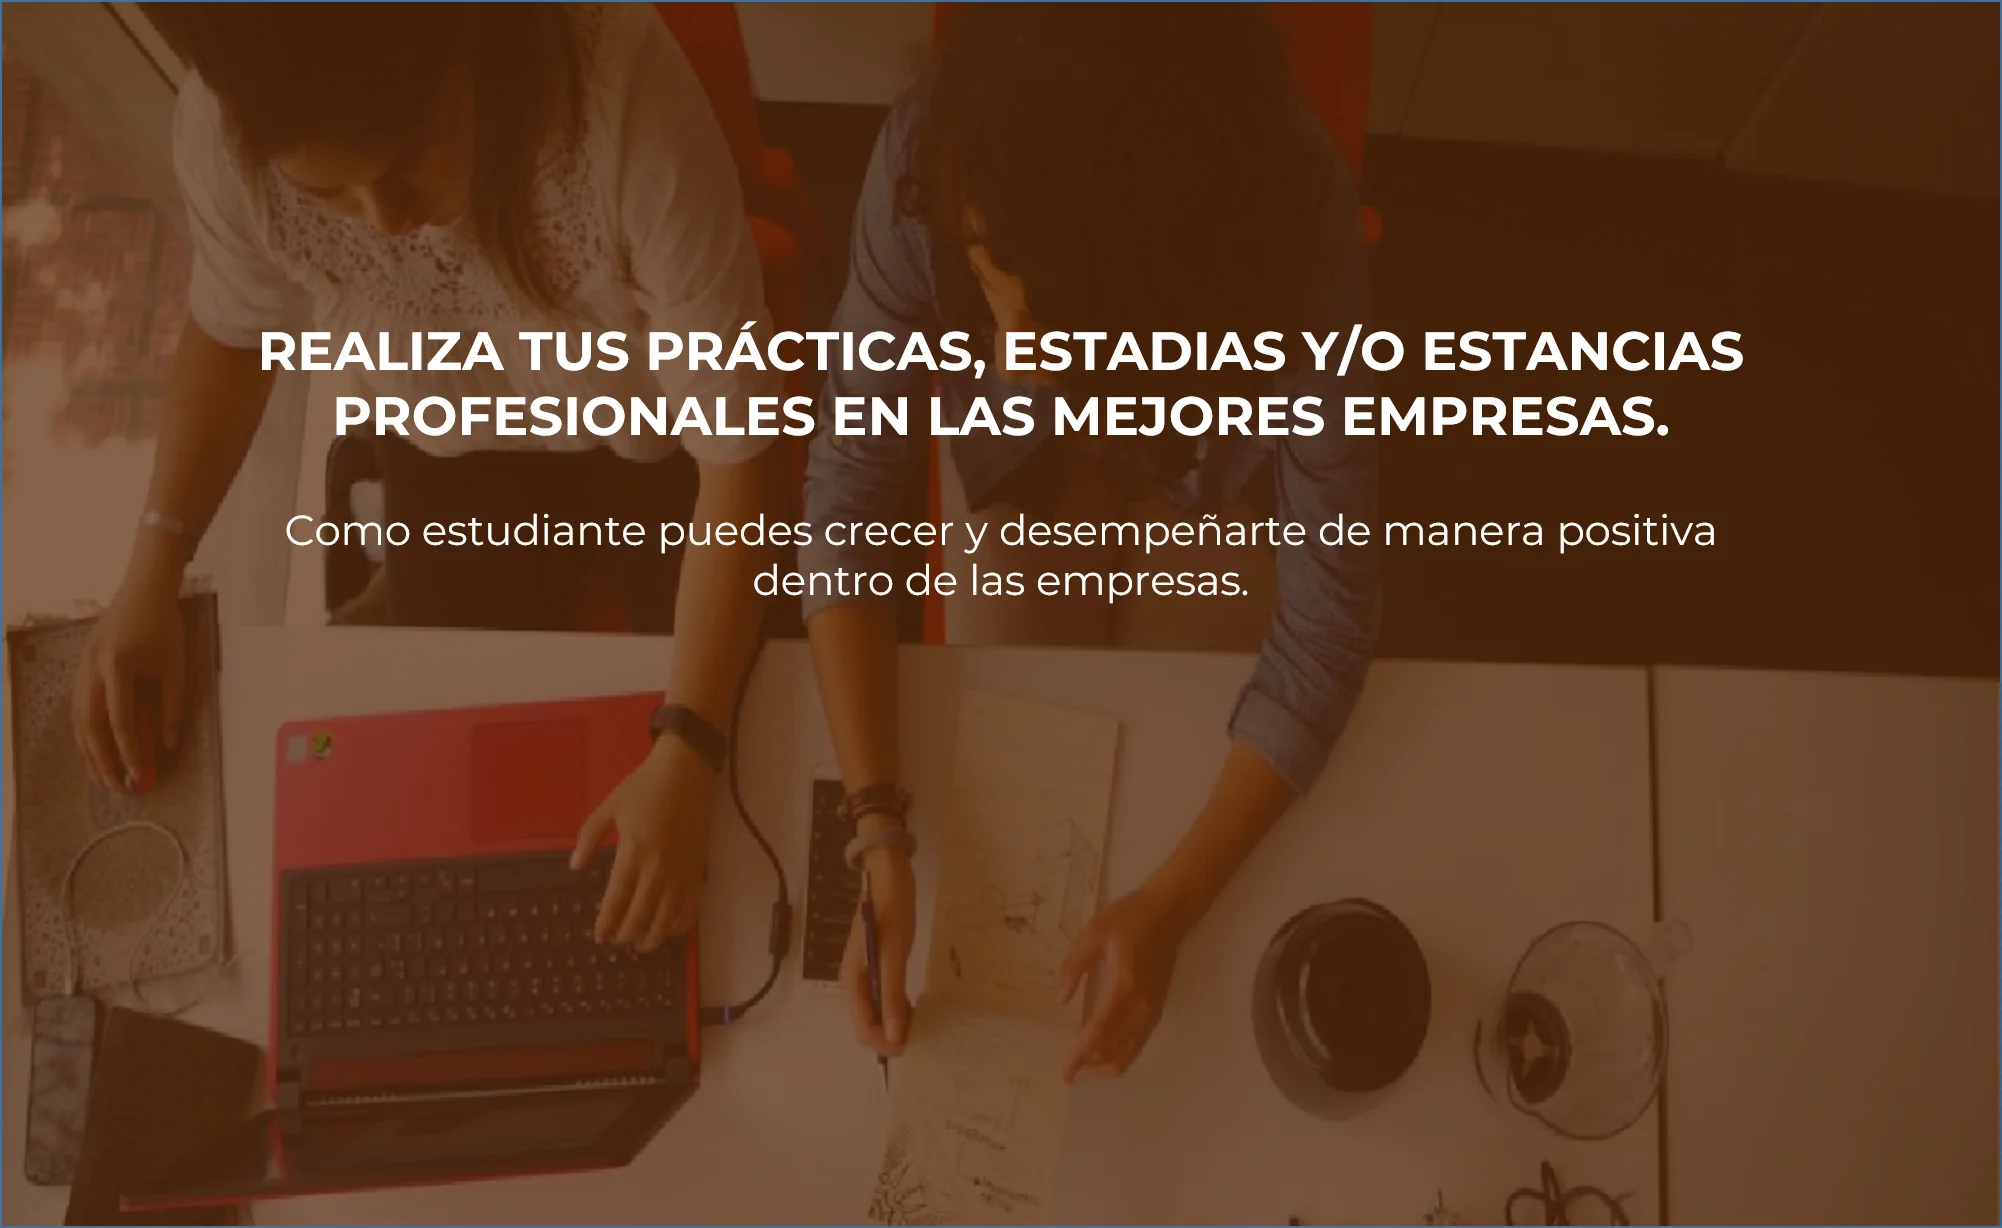
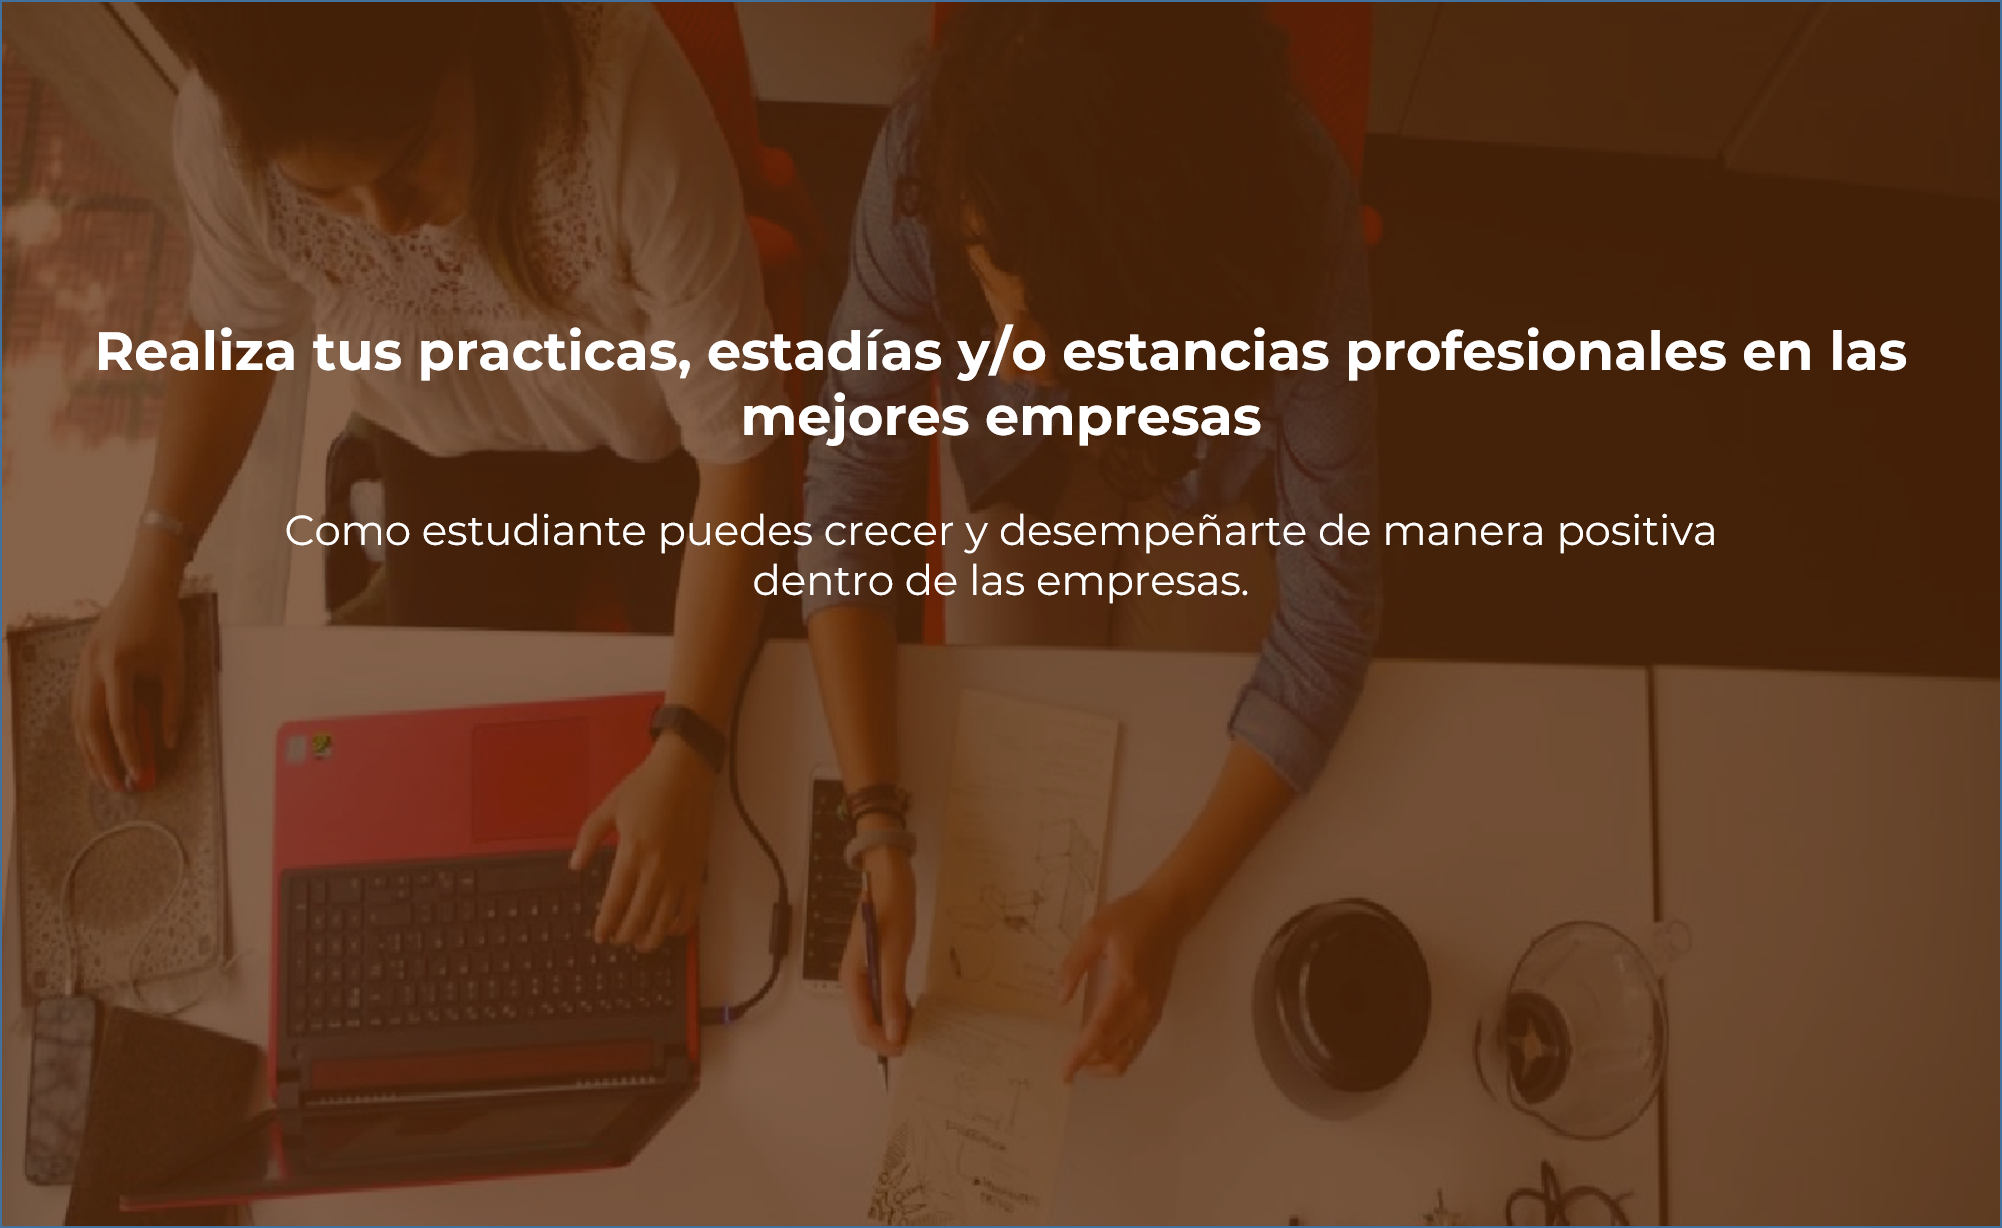
version con las corecciones de andrei

Changed region(s): [[0.031, 0.2476, 0.96, 0.3713], [0.991, 0.557, 1.0, 1.0]]

diff --git a/index.html b/index.html
@@ -74,7 +74,7 @@
                                 <a href="#feature" class="scroll">Resumen</a>
                             </li>
                             <li>
-                                <a href="#about" class="scroll">Que hacemos</a>
+                                <a href="#about" class="scroll">Qué hacemos</a>
                             </li>
                             <!--<li>
                                 <a href="#team" class="scroll">Team</a>
@@ -126,7 +126,7 @@
 
                             </li>
                             <li class="clearfix">
-                                <a href="#about" class="scroll">Que hacemos</a>
+                                <a href="#about" class="scroll">Qué hacemos</a>
 
                             </li>
                             <!--<li class="clearfix">
@@ -149,7 +149,7 @@
 
                         </ul>
 
-                        <p class="push-bottom text-white text-small">FESE "Fundacion Educacion Superior Empresa"</p>
+                        <p class="push-bottom text-white text-small">FESE "Fundación Educación Superior Empresa"</p>
                     </nav>
                 </div>
             </div>
@@ -233,7 +233,7 @@ s
                       <div class="split-box text-center ">
                           <div >                              
                               <h3  class = "text-white" >                                
-                                APROVECHA LOS BENEFICIOS QUE TENEMOS PARA TU EMPRESA  <!--Aqui podemos agregar un texto arriba del titulo, este texno va sin la etiqueta <p>-->
+                                Aprovecha los beneficios que tenemos para tu empresa   <!--Aqui podemos agregar un texto arriba del titulo, este texno va sin la etiqueta <p>-->
                               </h3>
                               <div class="text-large  margin-10px-bottom font-weight-100  text-white">
                                 Identificamos, desarrollamos, capacitamos y vinculamos el talento universitario con empresas de 
@@ -324,7 +324,7 @@ s
             <div class="col-lg-9 text-center center-col last-paragraph-no-margin">
                 <div class="sec-title margin-100px-bottom">
                     <div class="text-large text-red margin-10px-bottom font-weight-400 text-blue">
-                        Todo lo que necesitas saber.
+                        Todo lo que necesitas saber
                     </div>
                     <h3 class="text-capitalize alt-font text-extra-dark-gray font-weight-300">
                         Resumen <!----------------ESTO ES UAN SECCION DEL MENU----------------------->
@@ -350,7 +350,7 @@ s
                         Estudiantes
                     </div>
                     <p>
-                        Como estudiante, puedes crecer y desempeñarte de manera positiva dentro de las ampresas.
+                        Como estudiante, puedes crecer y desempeñarte de manera positiva dentro de las empresas.
                     </p>
                 </div>
             </div>
@@ -365,8 +365,7 @@ s
                         Empresas
                     </div>
                     <p>
-                      Identificamos, desarrollamos, capacitamos y vinculamos el talento universitario
-                      con empresas de cualquier tamaño.
+                        Identificamos, desarrollamos, capacitamos y vinculamos el talento universitario con empresas de cualquier tamaño.
                     </p>
                 </div>
             </div>
@@ -381,8 +380,7 @@ s
                         Universidades
                     </div>
                     <p>
-                      Nos dedicamos a conectar jóvenes universitarios de todo el país con oportunidades de 
-                      experiencia laboral.
+                        Nos dedicamos a vincular jóvenes universitarios de todo el país con oportunidades de  experiencia laboral. 
                     </p>
                 </div>
             </div>
@@ -413,10 +411,9 @@ s
                                 Empresarial
                             </h3>
                             <p>
-                              Somos una asociación civil respaldada por instituciones de educación superior, dedicada a conectar 
-                              a jóvenes universitarios de todo el país con oportunidades de experiencia laboral; tenemos una
-                               amplia base de datos de estudiantes altamente capacitados y motivados que están listos para 
-                               aplicar sus habilidades y conocimientos en su empresa.
+                              
+                                Somos una asociación civil respaldada por instituciones de educación superior, dedicada a vincular a jóvenes universitarios de todo el país con oportunidades de experiencia laboral; tenemos una amplia base de datos de estudiantes altamente capacitados y motivados que están listos para aplicar sus habilidades y conocimientos en su empresa.
+
                             </p>
                             <a href="http://empresarial.fese.mx/" class="btn btn-transparent-blue btn-rounded btn-large margin-20px-top">Más informacion.</a>
                         </div>
@@ -439,13 +436,12 @@ s
                             <div class="text-large text-red margin-10px-bottom font-weight-400 text-blue">
                                  <!--Aqui podemos agregar un texto arriba del titulo, este texto va sin la etiqueta <p>-->
                             </div>
-                            <h3 class="text-capitalize alt-font text-extra-dark-gray font-weight-300">
-                                Practicas,estadias y/o Estancias profesionales
+                            <h3 class=" alt-font text-extra-dark-gray font-weight-300">
+                                Prácticas, estadías y/o estancias profesionales
                             </h3>
+                            
                             <p>
-                                  Las habilidades y competencias se ven reforzadas si las pones en práctica en 
-                                  el mundo laboral,  esto sin importar la carrera que estés estudiando, Con estos 
-                                  nuevos conocimientos adquiridos destacaras sobre los demás.
+                                Las habilidades y competencias se ven reforzadas si las pones en práctica en el mundo laboral,  esto sin importar la carrera que estés estudiando, con estos nuevos conocimientos adquiridos destacarás sobre los demás.
                             </p>
                             <!--<a href="#." class="btn btn-transparent-blue btn-rounded btn-large margin-20px-top">Informarte</a>-->
                         </div>
@@ -472,9 +468,9 @@ s
                               Instituciones
                           </h3>
                           <p>
-                            La FESE es una organización nacional que promueve, gestiona y articula a través del trabajo
+                            La FESE es una asociación civil que promueve, gestiona y articula a través del trabajo
                              colaborativo de los sectores educativo, productivo y gubernamental, la vinculación de la 
-                             oferta de la educación superior con la demanda actual y futura del sector económico-productivo
+                             oferta de la educación superior con la demanda actual y futura del sector económico-productivo.
                           </p>
                           <!--<a href="#." class="btn btn-transparent-blue btn-rounded btn-large margin-20px-top">Ir a</a>--><!--QUITO EL BOTON YA QUE ESTA  ESTA SECCION ES SOLO INFORMATIVA-->
                       </div>
@@ -1067,8 +1063,8 @@ s
 <!-- aqui empieza la parte de las empresas que trabajan con nosotros-->
 <section>
 <div class="container " >
-    <h3 class="text-capitalize alt-font text-extra-dark-gray font-weight-300 text-center">
-        Ellos confian en nosotros.
+    <h3 class=" alt-font text-extra-dark-gray font-weight-300 text-center">
+        Ellos confian en nosotros
     </h3><br>
     <div class="row margenFondoDivs">
     <!--------------------------------------------------------------------------------------->

diff --git a/esr.html b/esr.html
@@ -232,8 +232,8 @@ s
                     <div class= "col-lg-9 text-center center-col last-paragraph-no-margin centrar" >
                       <div class="split-box text-center ">
                           <div >                              
-                              <h3  class = "text-white centro">                                
-                                LA RESPONSABILIDAD SOCIAL COMO PARTE FUNDAMENTAL DE LA FUNDACIÓN EDUCACIÓN SUPERIOR EMPRESA  <!--Aqui podemos agregar un texto arriba del titulo, este texno va sin la etiqueta <p>-->
+                              <h3  class = "text-white ">                                
+                                La responsabilidad social como parte fundamental de la fundación educación superior empresa  <!--Aqui podemos agregar un texto arriba del titulo, este texno va sin la etiqueta <p>-->
                               </h3>
                               <!--<div class="text-large  margin-10px-bottom font-weight-100  text-white">
                                 Identificamos, desarrollamos, capacitamos y vinculamos el talento universitario con empresas de 
@@ -325,7 +325,7 @@ s
                                 <!--Aqui podemos agregar un texto arriba del titulo, este texno va sin la etiqueta <p>-->
                             </div>
                             <div class="col-md-12"><br>
-                                <h3 class="color_titulo text-left"> Ética Empresarial  </h3>
+                                <h3 class="color_titulo text-left"> Ética empresarial  </h3>
                             </div>
                             <div  class="col-md-12 text-center">
                                 <br>
@@ -334,7 +334,7 @@ s
                             </div>
                             <!----------------------------------------------------------->
                             <div class="col-md-12"><br>
-                                <h3 class="color_titulo text-left"> Calidad de Vida en la Empresa </h3>
+                                <h3 class="color_titulo text-left"> Calidad de vida en la empresa </h3>
                             </div>
                             <div  class="col-md-12 text-center">
                                 <br>
@@ -342,7 +342,7 @@ s
                             </div>
                             <!---------------------------------------------------------------->
                             <div class="col-md-12"><br>
-                                <h3 class="color_titulo text-left"> Medio Ambiente </h3>
+                                <h3 class="color_titulo text-left"> Medio ambiente </h3>
                             </div>
                             <div  class="col-md-12 text-center">
                                 <br>

diff --git a/avisodeprivacidad.html b/avisodeprivacidad.html
@@ -168,13 +168,13 @@
         
     <div class="col-md12">
         <div class="col-md-12"><br><br>
-            <h1 class="color_titulo">AVISO DE PRIVACIDAD</h1><br>
+            <h1 class="color_titulo">Aviso de privacidad</h1><br>
             </div>
             <div class="col-md-12 text-center">
                 <p class="text-justify">El presente aviso de privacidad establece los términos y condiciones para el tratamiento de los datos personales que recabe la <strong>Fundación Educación Superior Empresa, A. C.</strong> (en lo sucesivo “<strong>FESE</strong>”) con domicilio ubicado en Tenayuca 200, Colonia Santa Cruz Atoyac, código postal 03310, Benito Juárez en la Ciudad de México y portal de internet <strong>www.fese.mx</strong>, para la prestación de cualquiera de nuestros servicios, de conformidad con lo establecido en la <strong>Ley Federal de Protección de Datos Personales en Posesión de los Particulares</strong> (en lo sucesivo “<strong>LA LEY</strong>”) </p></div>
 
             <div class="col-md-12"><br>
-                <h3 class="color_titulo">Datos Personales que recabamos</h3><br>
+                <h3 class="color_titulo">Datos personales que recabamos</h3><br>
             </div>
             <div class="col-md-12 text-center">
                 <p class="text-justify">La <strong>FESE</strong>, podrá recabar los datos personales del <strong>TITULAR</strong> de forma directa y/o particular por cualquier medio de contacto; de manera indirecta a través de nuestra página web; plataformas digitales identificadas en nuestra página web o redes sociales y uso de cookies en nuestras plataformas. </p>
@@ -234,7 +234,7 @@
 			
 			
 			<div class="col-md-12"><br>
-                <h3 class="color_titulo">Ejercicio de Derechos ARCO</h3><br>
+                <h3 class="color_titulo">Ejercicio de derechos ARCO</h3><br>
             </div>
             <div class="col-md-12 text-center">
                 <p class="text-justify">Como <strong>TITULAR</strong> de los datos personales que recabamos, usted cuenta con derechos de acceso, rectificación, cancelación y oposición (<strong>ARCO</strong>) que podrá ejercer en cualquier momento para conocer los datos personales con los que contamos; para qué los utilizamos y las condiciones del uso que les damos; para solicitar la corrección de su información personal en caso de que se encuentre desactualizada, sea inexacta o esté incompleta; para que la eliminemos de nuestros registros o bases de datos cuando considere que la misma no está siendo utilizada adecuadamente; así como para oponerse al uso de sus datos personales en los fines principales o accesorios que la <strong>FESE</strong> da a los mismos.</p>
